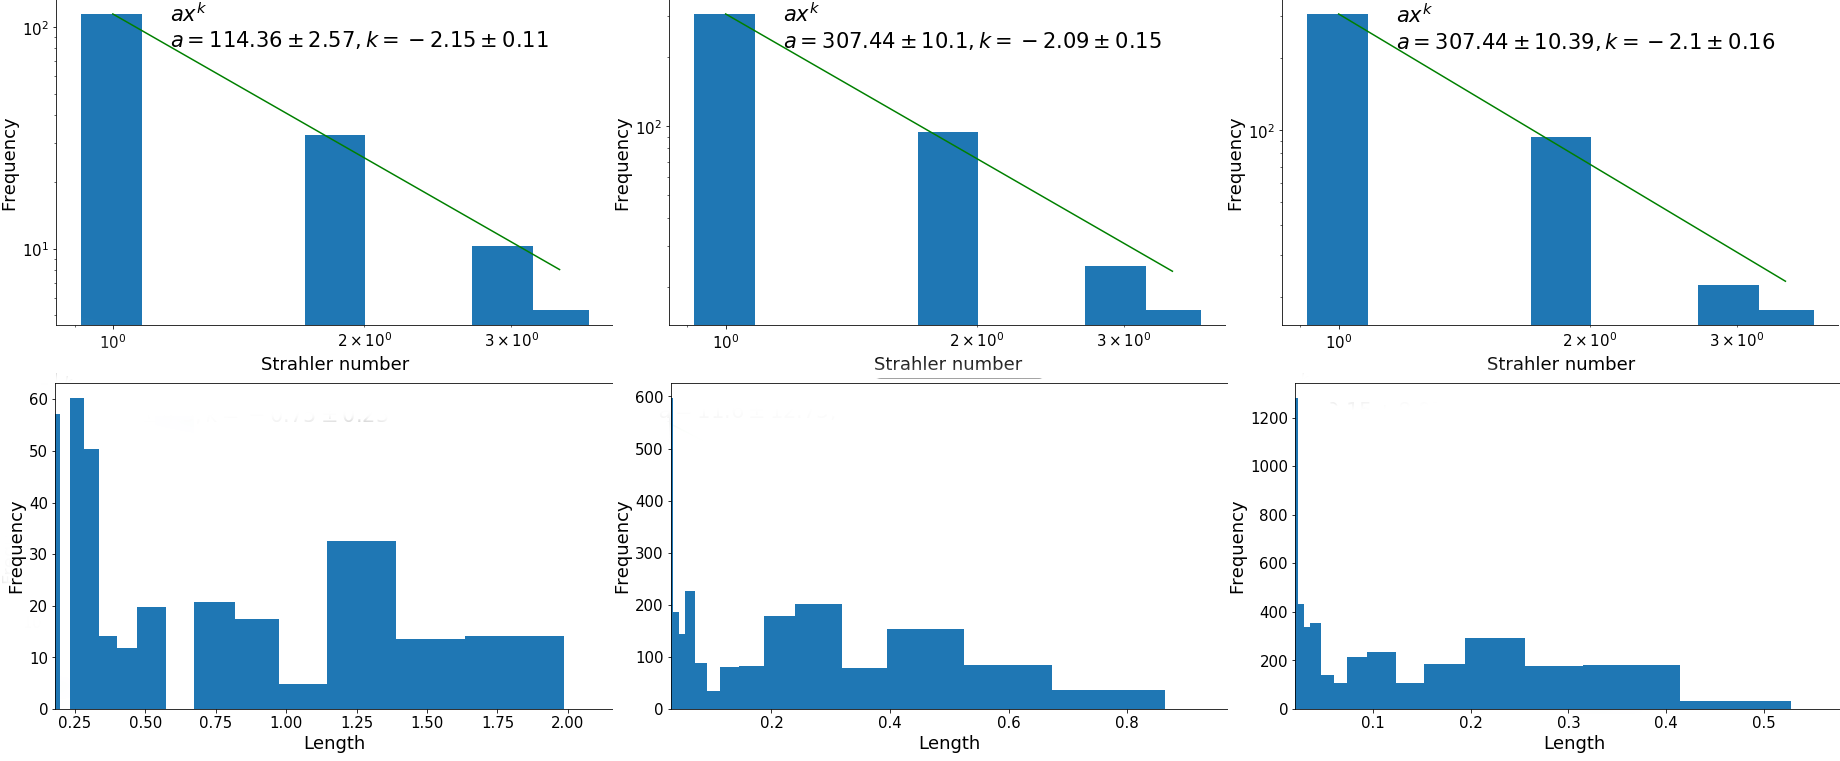
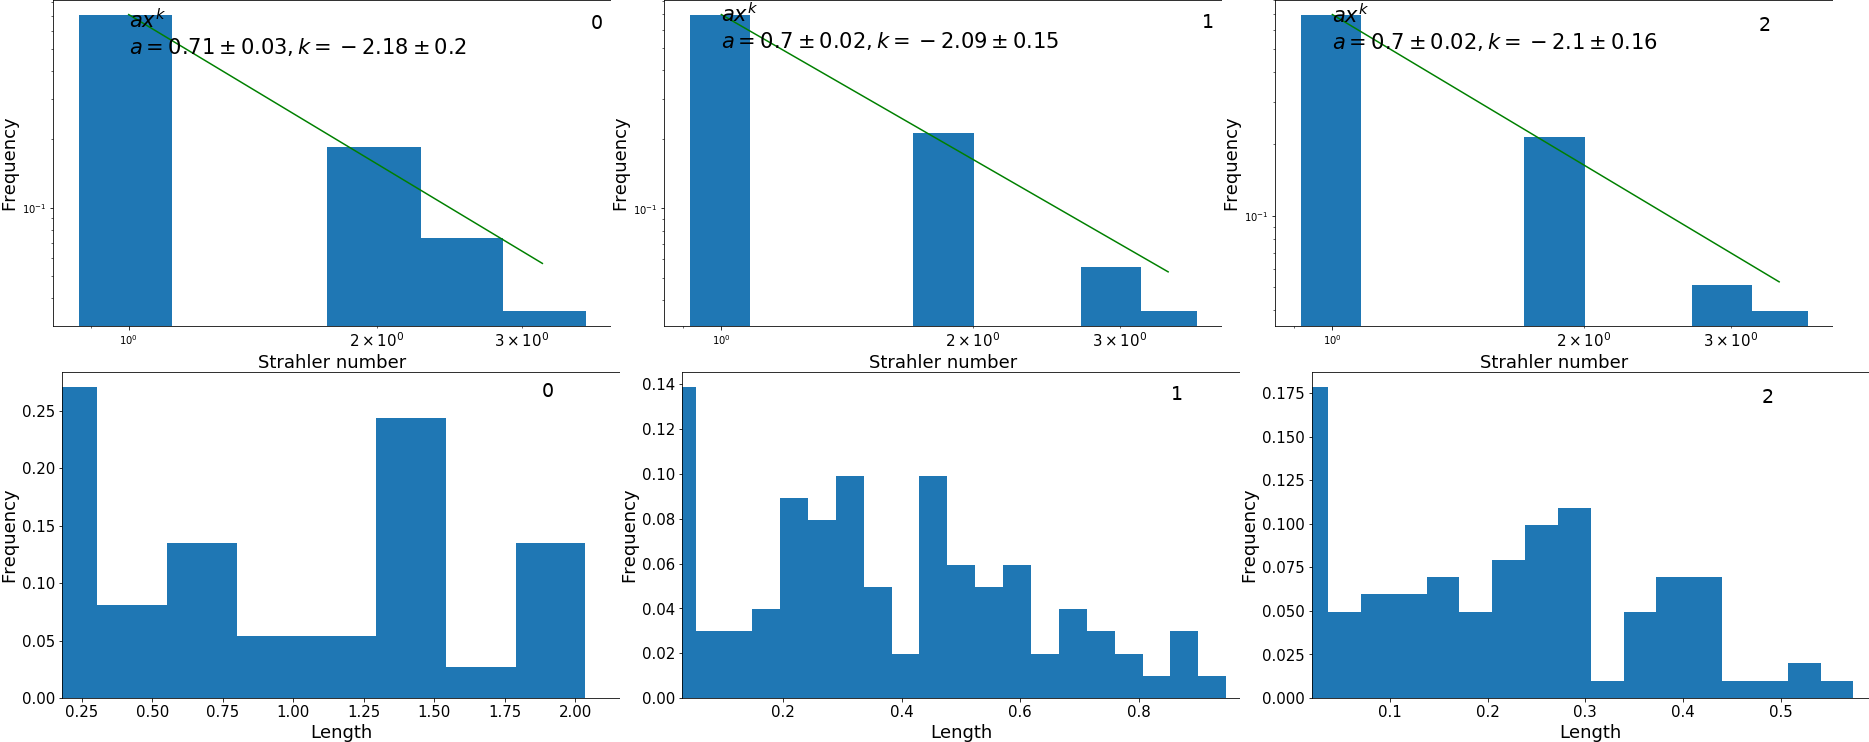
new upd after professor

diff --git a/master_thesis/RiverSim_master_thesis.tex b/master_thesis/RiverSim_master_thesis.tex
@@ -803,7 +803,7 @@
         \begin{figure}[H]
           \centering
           \includegraphics[width=1\textwidth]{figs/sims/laplacian_field_etas.png}         
-          \caption{River networks in Laplacian field with different $\eta$ parameter value and bifurcation threshold equal to $0.5$.}
+          \caption{River networks in Laplacian field with different $\eta$ parameter values and bifurcation threshold equal to $0.5$.}
           \label{laplacian_etas}
         \end{figure} 
 
@@ -812,11 +812,11 @@
         \begin{figure}[H]
           \centering
           \includegraphics[width=0.83\textwidth]{figs/sims/laplacian_big_field_etas.png}        
-          \caption{River networks in Laplacian field with different $\eta$ parameter value and bifurcation threshold equal to $0.5$.}
+          \caption{River networks in Laplacian field with different $\eta$ parameter values and bifurcation threshold equal to $0.5$.}
           \label{laplacian_big_etas}
         \end{figure}
 
-        When $\eta = 0$, as the result we are getting a network with few bifurcations and long branches. With the positive values of $\eta > 0$, we get a river network where springs with higher groundwater flux grow faster, and springs with lower flux eventually stop the growth. With $\eta > 2$ competition between branches is even more visible and as the result, we are getting one composite branch which tends to grow in the middle of the region with short nongrowing side branches (Fig.\ref{laplacian_etas}). For bigger region Fig.\ref{laplacian_big_etas}, river network structure is similar but side branches are more developed for higher $\eta$ values. Because bigger region gets more groundwater and fluxes are higher.
+        When $\eta = 0$, the velocity of erosion in the vicinity of springs does not depend on groundwater flux, as the result we are getting a network with few bifurcations and long branches which never stop their growth. With the positive values of $\eta > 0$, we get a river network where springs with higher groundwater flux grow faster, and springs with lower flux eventually stop the growth. With $\eta > 2$ competition between branches is even more visible and as the result, we are getting one composite branch which tends to grow in the middle of the region with short nongrowing side branches (Fig.\ref{laplacian_etas}). For bigger region Fig.\ref{laplacian_big_etas}, river network structure is similar but side branches are more developed for higher $\eta$ values. This is because bigger region gets more groundwater and fluxes are higher.
         \pagebreak
 
       \subsection{Poisson field}
@@ -826,11 +826,11 @@
         \begin{figure}[H]
           \centering
           \includegraphics[width=0.83\textwidth]{figs/sims/poisson_field_etas.png}        
-          \caption{River networks in Poisson field with different $\eta$ parameter value and bifurcation threshold equal to $0.5$.}
+          \caption{River networks in Poisson field with different $\eta$ parameter values and bifurcation threshold equal to $0.5$.}
           \label{poisson_etas}
         \end{figure}
 
-        When $\eta = 0$, we have also constant growth as was said for the Laplacian case. This results in longer branches. With the higher values of $\eta$ network becomes more fragmented, more bifurcation occurs and the river network more evenly is spreading over the domain. Unlike in the Laplacian field, in the Poisson field source of groundwater is evenly distributed over the domain.
+        When $\eta = 0$, we have also a constant growth rate of each spring. This results in longer branches and smaller coverage of the region by the river network. With the higher values of $\eta$ network becomes more fragmented, more bifurcation occurs and the river network more evenly is spreading over the domain. Unlike in the Laplacian field, in the Poisson field source of groundwater is evenly distributed over the domain.
 
       \subsection{Histograms of branch lengths and Strahler numbers}
       
@@ -843,7 +843,7 @@
           \label{laplacian_etas_analysis}
         \end{figure}
 
-        Strahler number of river networks is a numerical measure of its branching complexity. Each river segment within the river network is treated as a node in a tree, with the next segment downstream as its parent. When two first-order streams come together, they form a second-order stream. When two second-order streams come together, they form a third-order stream. Streams of lower order joining a higher order stream do not change the order of the higher stream. Strahler numbers evaluate for Poisson river networks are presented on histograms plots in log scale (both axes). On the plots also are present fitted power law functions plots where power $k$ is varying from $-1.3$ to $-2.9$ and coefficient of proportionality $a$ -- from $42$ to $169$. The river branch length histogram is too noisy to make it fit into power law distribution, so we provide a histogram in linear scale without fitting.
+        Strahler number of river networks is a numerical measure of its branching complexity. Each river segment within the river network is treated as a node in a tree, with the next segment downstream as its parent. When two first-order streams come together, they form a second-order stream. When two second-order streams come together, they form a third-order stream. Streams of lower order joining a higher order stream do not change the order of the higher stream. The statistics of the Strahler number of individual segments of the Poisson river networks are presented on histogram plots in log scale (both axes). On the plots also are present fitted power law functions plots where power $k = -2.1 \pm 0.16$. Power $k$ does not show a significant trend depending on $\eta$. The river branch length histogram is too noisy to make it fit into power law distribution, so we provide a histogram in linear scale without fitting.
 
         In Fig.\ref{laplacian_big_etas_analysis} we present length and Strahler number histograms of Laplacian river networks on a bigger domain shown in Fig. \ref{laplacian_big_etas}:
 
@@ -854,7 +854,7 @@
           \label{laplacian_big_etas_analysis}
         \end{figure}
 
-        For Fig.\ref{laplacian_big_etas_analysis} Strahler number distribution in the log scale gives an even better fit for power law. Parameter $k$ is in range from $-1.94$ to $-2.26$, and parameter $a$ -- from $112$ to $318$.
+        For Fig.\ref{laplacian_big_etas_analysis} Strahler number distribution in the log scale gives an even better fit for power law. Parameter $k$ is equal to $-2.12 \pm 0.05$.
 
         And here we present in Fig.\ref{poisson_etas_analysis} length and Strahler number histograms for Poisson rivers networks shown in Fig. \ref{poisson_etas}:
 
@@ -865,7 +865,7 @@
           \label{poisson_etas_analysis}
         \end{figure}
 
-        River networks grown in the Poisson field give the best fits of the power law for Strahler numbers distribution and length distribution. For Strahler number distribution parameter $k$ is in the range from $-1.79$ to $-2.38$. River branch lengths distribution gives the next parameter $k$ after power law fitting values -- from $-1.16$ to $-1.8$.
+        River networks grown in the Poisson field give the best fits of the power law for Strahler numbers distribution and length distribution also can be fitted into power law distribution. For Strahler number distribution parameter $k$ is equal to $-2.15 \pm 0.07$. And for river branch lengths distribution power $k$ is equal to $-1.47 \pm 0.48$. This means that the river networks in the Poisson field are scale-free and resemble fractal features.
 
 
   \chapter{Summary}
@@ -887,7 +887,8 @@
     \end{itemize}
 
     %Коротко показана верифікація бібліотеки Riversim, приклад програми для обрахування розвитку мережі і деякі резултати симуляцій.\par
-    The verification of the Riversim library, an example of a program for calculating the development of the network, simulations result in Laplacian and Poisson fields for different $\eta$, branch length distribution, and Strahler number distribution for different $\eta$. Distributions of branch lengths and Strahler numbers in river networks grown in the Poisson field show a good fit to power law which is shown in Fig.\ref{poisson_etas_analysis}.\par
+    %  Ми показали що програма дала правильні резудьати і на графіках
+    We showed verification of parameter $a_1$ which was compared with the analytical solution with relative error up to $0.0003\%$. We presented the main program loop for river network generations. Simulation results in Laplacian and Poisson fields for different $\eta$ were shown. We presented and analyzed branch length distribution and Strahler number distribution for different $\eta$. Strahler number distribution can be fit into power law distribution with power $k$ equal to $-2.11 \pm 0.13$ for Laplacian networks, and $k$ equal to $-2.15 \pm 0.07$ for Poisson networks. For Poisson river networks length distribution also can be fitted into power law distribution, which is not the case for Laplacian networks. Power $k$ for length distribution is equal to $-1.48 \pm 0.5$. This implies that the river networks in the Poisson field are scale-free and resemble fractal features.\par
 
     \section*{Acknowledgements}
       
